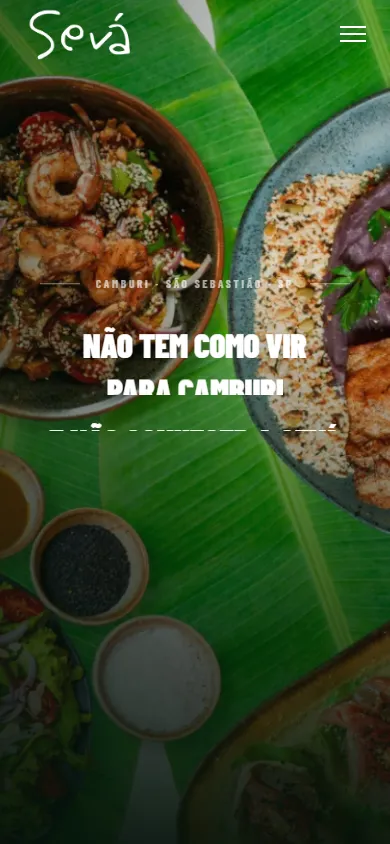
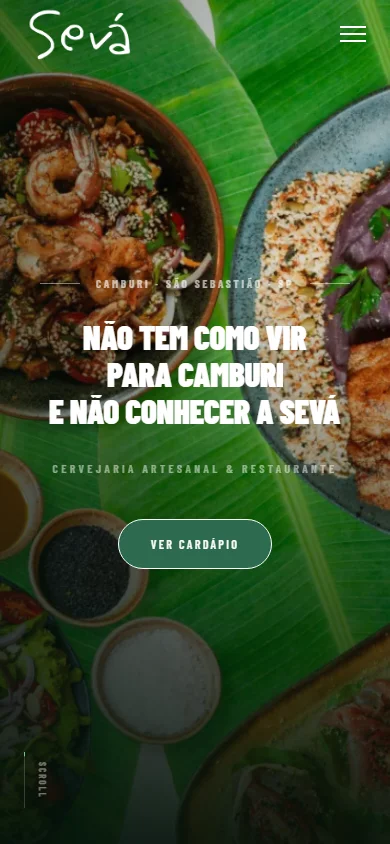
ajustes

diff --git a/index.html b/index.html
@@ -190,6 +190,11 @@
       <div class="wrap">
         <h2 id="notes-title" class="display">Blog</h2>
         <p>Quanto custa, o que entra na proposta e como escolher o formato do seu site.</p>
+        <div class="reading-list blog-highlights">
+          <article><p class="eyebrow">Orçamento</p><h3><a href="caderno/custo-de-um-site.html">Quanto custa criar um site para empresa?</a></h3><p>O preço inicial da Mamangava e dois exemplos para entender o que muda no orçamento.</p><a class="read-article" href="caderno/custo-de-um-site.html" aria-label="Ler matéria sobre o custo de um site">Ler matéria ↗</a></article>
+          <article><p class="eyebrow">Contratação</p><h3><a href="caderno/comparar-propostas-criacao-site.html">Como comparar propostas de criação de site</a></h3><p>Confira o escopo, os acessos e o que será entregue antes de escolher um fornecedor.</p><a class="read-article" href="caderno/comparar-propostas-criacao-site.html" aria-label="Ler matéria sobre comparação de propostas">Ler matéria ↗</a></article>
+          <article><p class="eyebrow">Prazo</p><h3><a href="caderno/quanto-tempo-demora-criar-site.html">Quanto tempo demora para criar um site?</a></h3><p>Veja como as páginas, os materiais e as aprovações entram no calendário do projeto.</p><a class="read-article" href="caderno/quanto-tempo-demora-criar-site.html" aria-label="Ler matéria sobre prazo de criação de site">Ler matéria ↗</a></article>
+        </div>
         <a class="blog-link" href="caderno/index.html">Ver todas as matérias ↗</a>
       </div>
     </section>

diff --git a/css/site.css b/css/site.css
@@ -62,6 +62,21 @@
 .reading-list h3 a:hover, .read-article { text-decoration: underline; }
 .read-article { width: fit-content; display: inline-flex; align-items: center; min-height: 2.75rem; }
 .scene { position: relative; isolation: isolate; overflow: clip; }
+@media (prefers-reduced-motion: no-preference) {
+  #conteudo { isolation: isolate; }
+  #conteudo > [data-stack] {
+    position: sticky;
+    top: min(0px, calc(100dvh - var(--panel-height)));
+  }
+}
+.hero.wrap, .services.wrap {
+  width: 100%;
+  padding-inline: max(var(--gutter), calc((100% - 100rem) / 2));
+  background-color: var(--carbon);
+}
+.hero.wrap .hero-art { right: max(var(--gutter), calc((100% - 100rem) / 2)); }
+.blog-entry { background-color: var(--carbon); }
+.blog-entry .blog-highlights { width: 100%; margin-block: .8rem; }
 .scene-art {
   position: absolute;
   z-index: -1;

diff --git a/js/site.js b/js/site.js
@@ -310,3 +310,15 @@ window.addEventListener("resize", queueParallax);
 reducedMotion.addEventListener("change", queueParallax);
 queueParallax();
 
+// Keep the last visible part of a tall section in place as the next one covers it.
+if ("ResizeObserver" in window) {
+  const panels = document.querySelectorAll("#conteudo > section:not(:last-child)");
+  const panelSizes = new ResizeObserver(entries => {
+    for (const { target } of entries) {
+      target.style.setProperty("--panel-height", `${target.offsetHeight}px`);
+      target.dataset.stack = "";
+    }
+  });
+  for (const panel of panels) panelSizes.observe(panel);
+}
+
